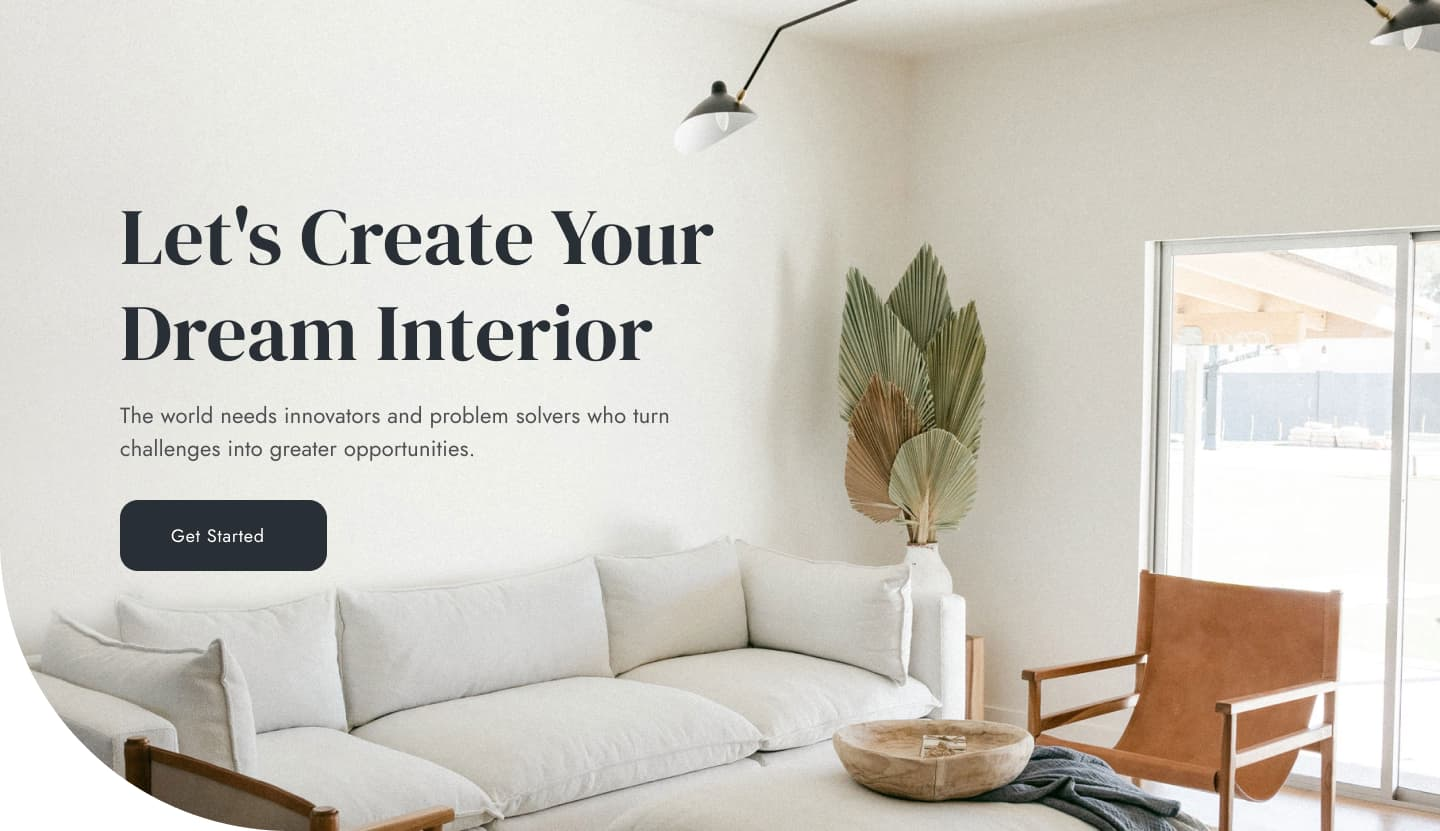
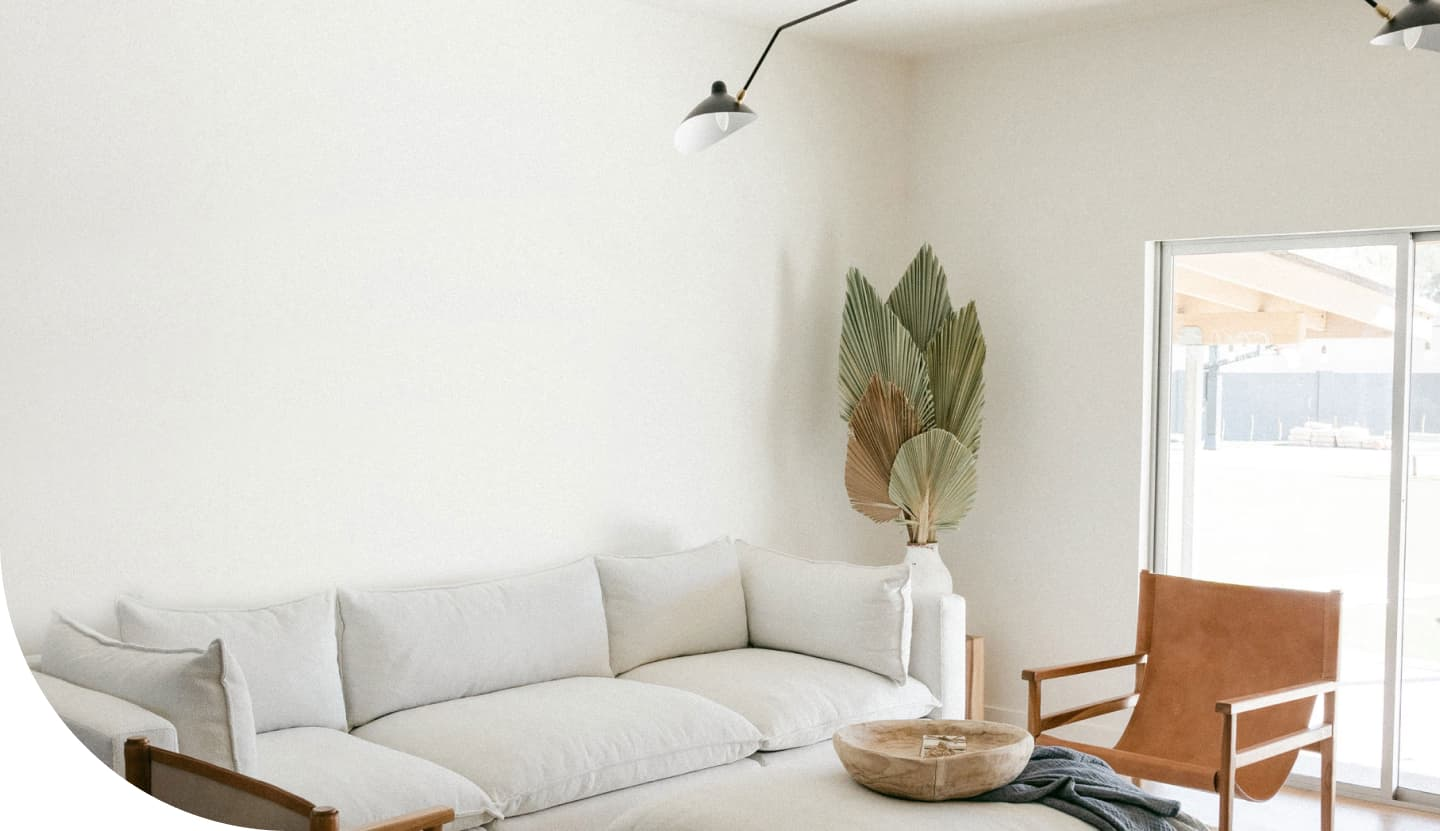
bunner

diff --git a/style.css b/style.css
@@ -1,3 +1,8 @@
+body {
+    font-family: Jost;
+    font-size: 20px;
+}
+
 a {
     text-decoration: none;
 }
@@ -15,16 +20,16 @@ a {
     align-items: center;
     justify-content: space-between;
 }
+
 .nav {}
 
 .nav-list {
     display: flex;
-    
-        font-family: Jost;
-        font-size: 20px;
-        font-weight: 400;
-        line-height: 1.57;
-        letter-spacing: 0.4px;
+    font-family: Jost;
+    font-size: 20px;
+    font-weight: 400;
+    line-height: 1.57;
+    letter-spacing: 0.4px;
 }
 
 .nav-list a{
@@ -39,13 +44,44 @@ a {
     color: #cda274;
 }
 /* =====bunner=====*/
-.bunner {}
+.bunner {
+    height: 831px;
+    background-color: lightgray;
+    border-radius: 0 0 0 290px;
+    background-image: url(./img/hero.jpg);
+    background-repeat: no-repeat;
+    background-size: cover;
+    overflow: hidden;
+    padding-left: 120px;
+    padding-top: 188px;
+}
 
-.bunner-title {}
+.bunner-title {
+    color: #292F36;
+    font-family: "DM Serif Display";
+    font-size: 80px;
+    line-height: 1.20;
+    letter-spacing: 0.22px;
+    margin-bottom: 19px;
+}
 
-.bunner-text {}
+.bunner-text {
+    color: #4D5053;
+    font-size: 22px;
+    line-height: 1.50;
+    letter-spacing: 0.22px;
+    margin-bottom: 57px;
+}
 
-.bunner-btn {}
+.bunner-btn {
+    color: #FFF;
+    font-size: 18px;
+    line-height: 1.50;
+    letter-spacing: 0.72px;
+    background-color: #292F36;
+    border-radius: 18px;
+    padding: 22px 51px;
+}
 /* =====features=====*/
 .features {}
 

diff --git a/index.html b/index.html
@@ -14,7 +14,7 @@
 </head>
 
 <body>
-    <header>
+    <header class="header container">
         <a href="#"><img src="./img/logo.jpg" alt="logo company"></a>
 <nav class="nav">
     <ul class="nav-list">
